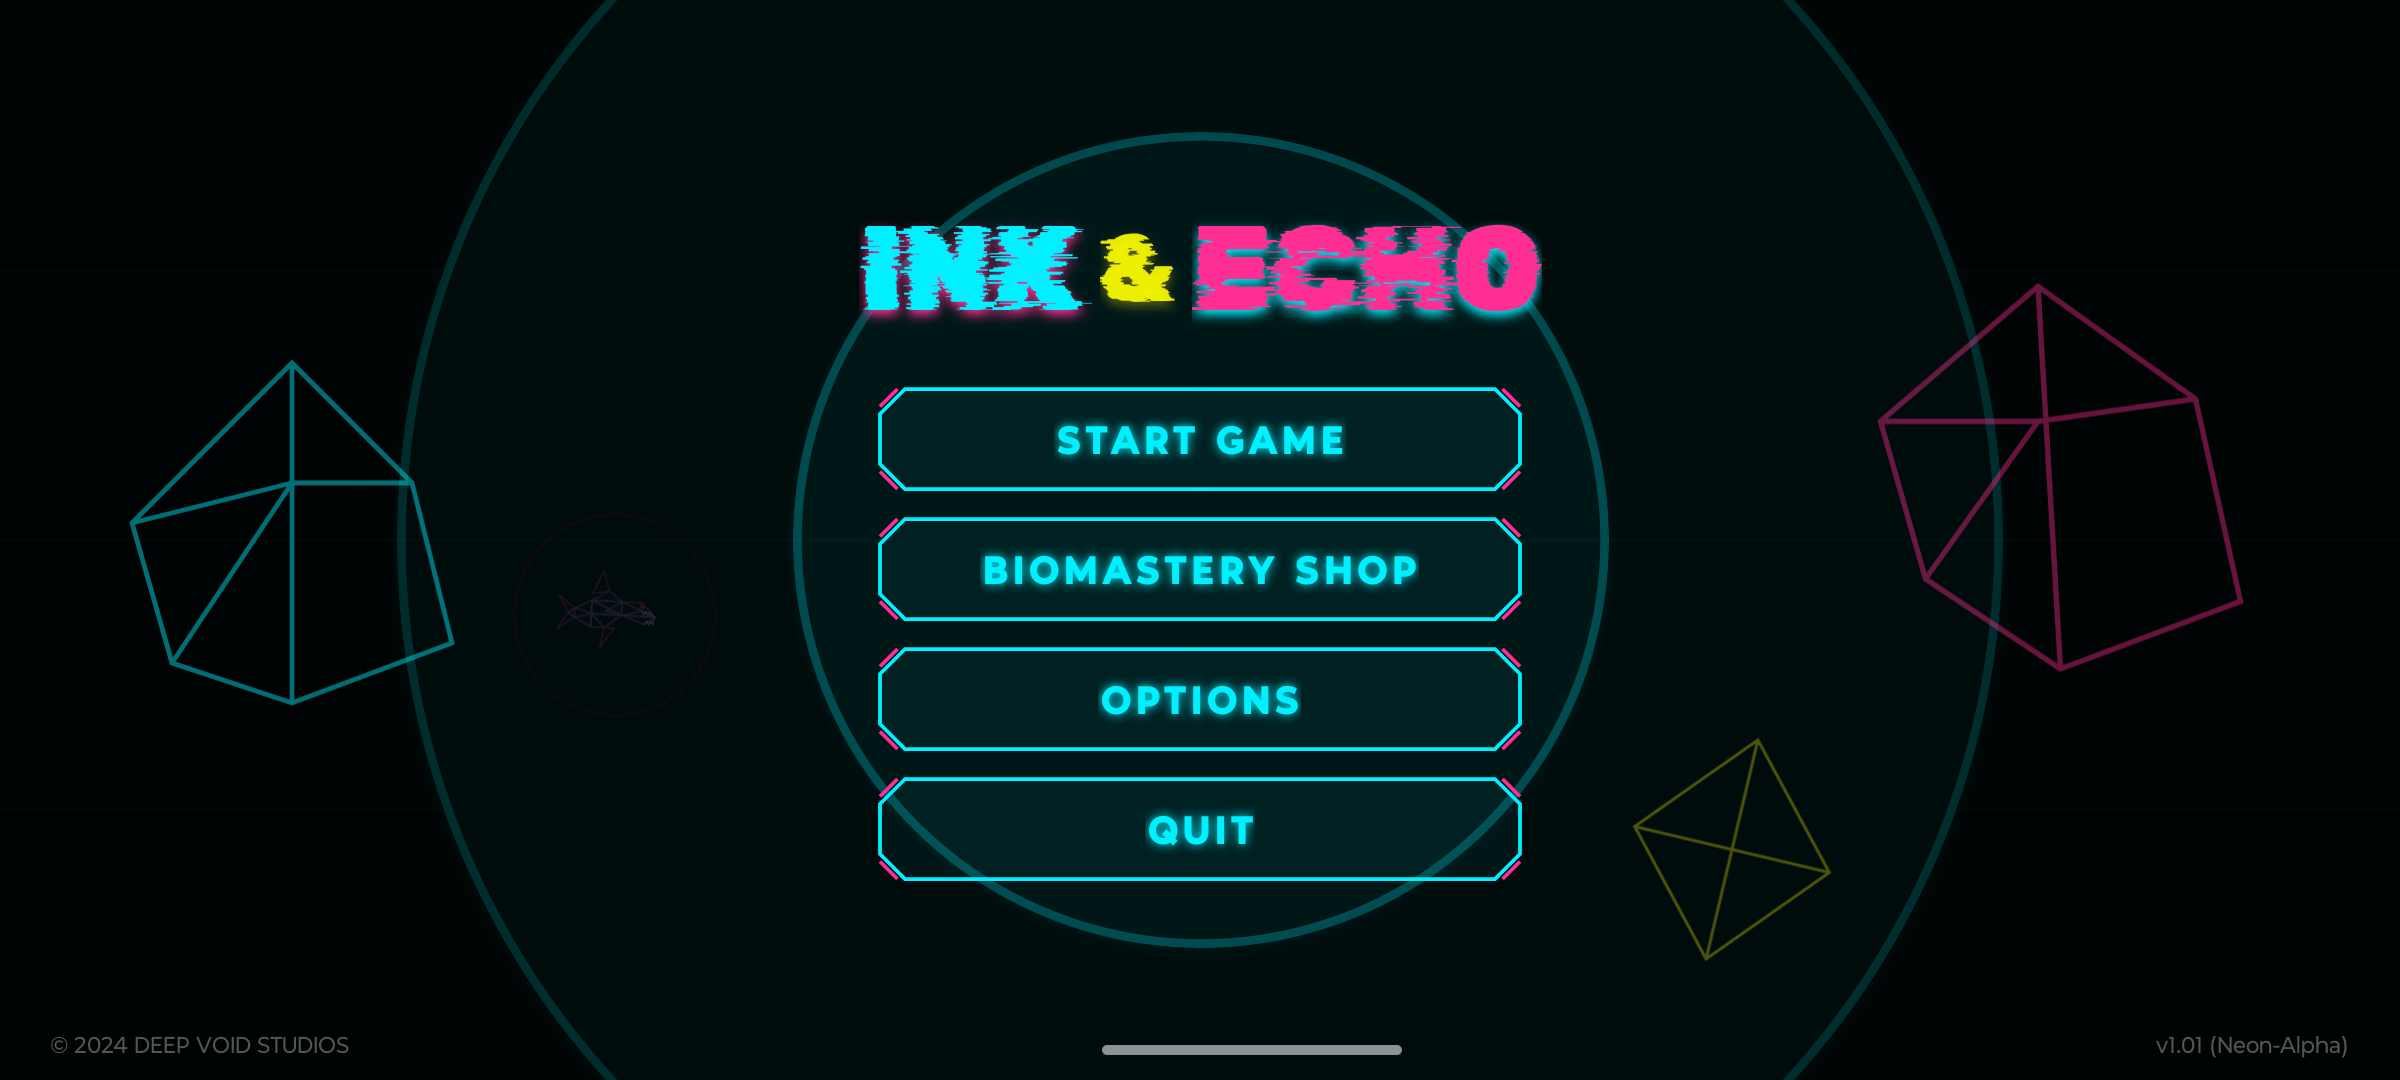
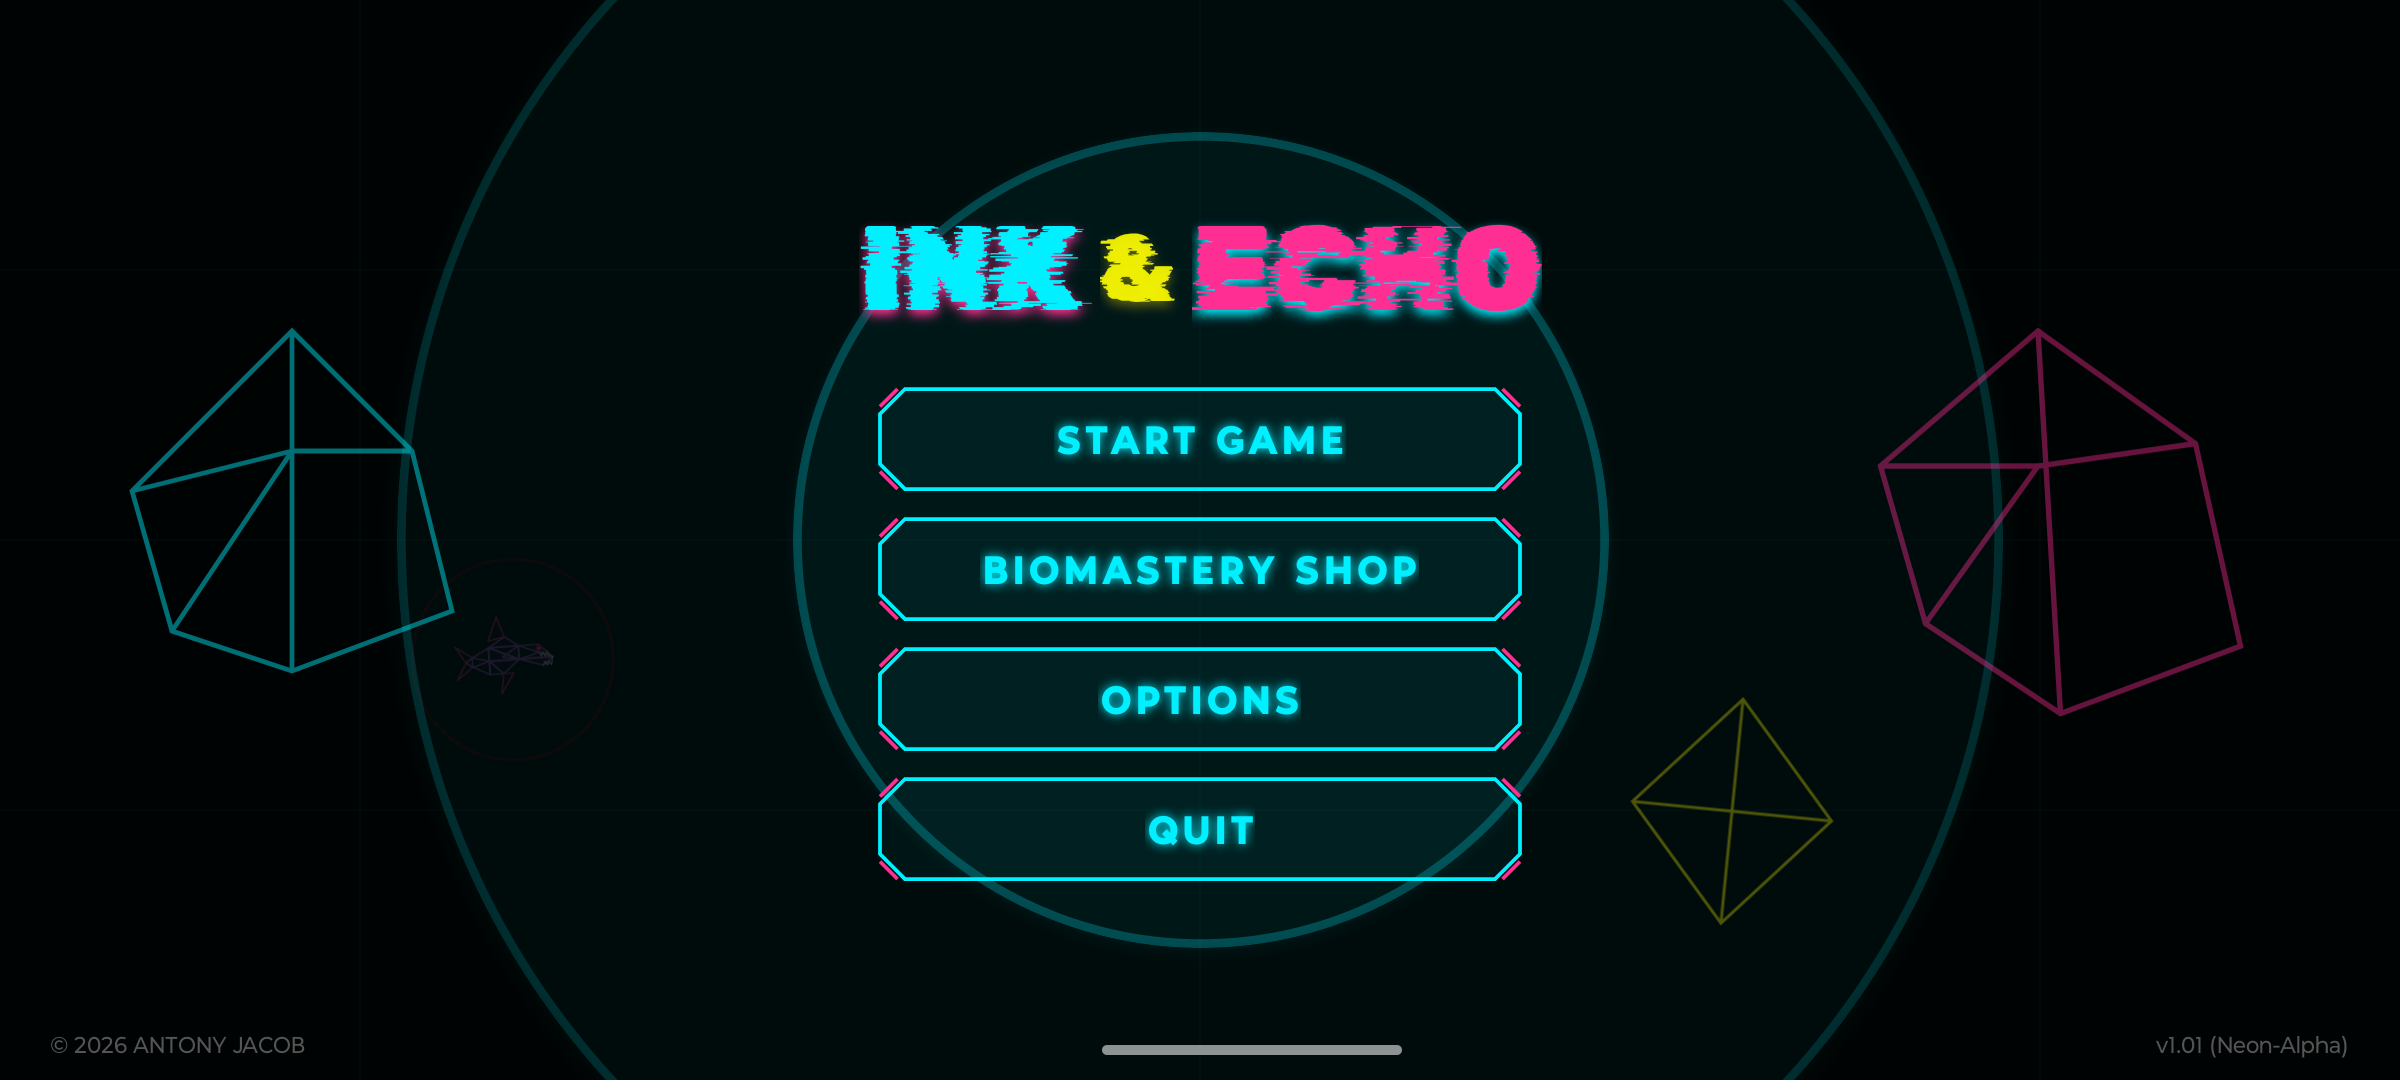
Game Developed

diff --git a/src/screens/MainMenu.js b/src/screens/MainMenu.js
@@ -348,7 +348,7 @@ export default function MainMenu({
         </View>
       )}
 
-      <Text style={styles.footerLeft}>© 2024 DEEP VOID STUDIOS</Text>
+      <Text style={styles.footerLeft}>© 2026 ANTONY JACOB</Text>
       <Text style={styles.footerRight}>v1.01 (Neon-Alpha)</Text>
     </View>
   );